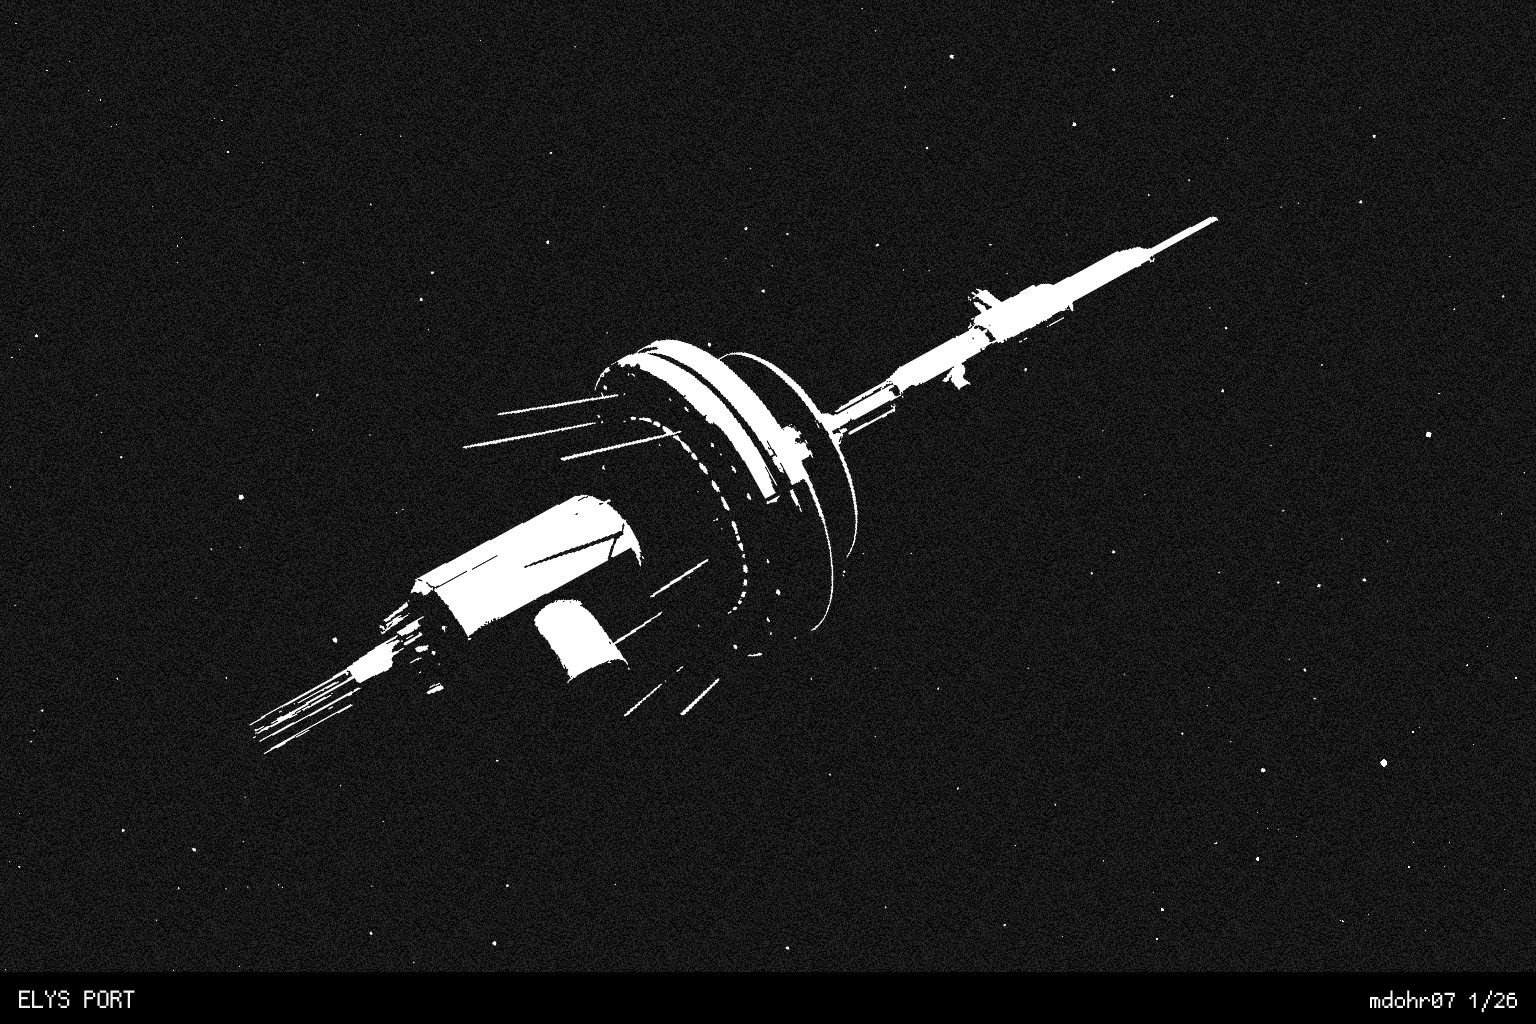
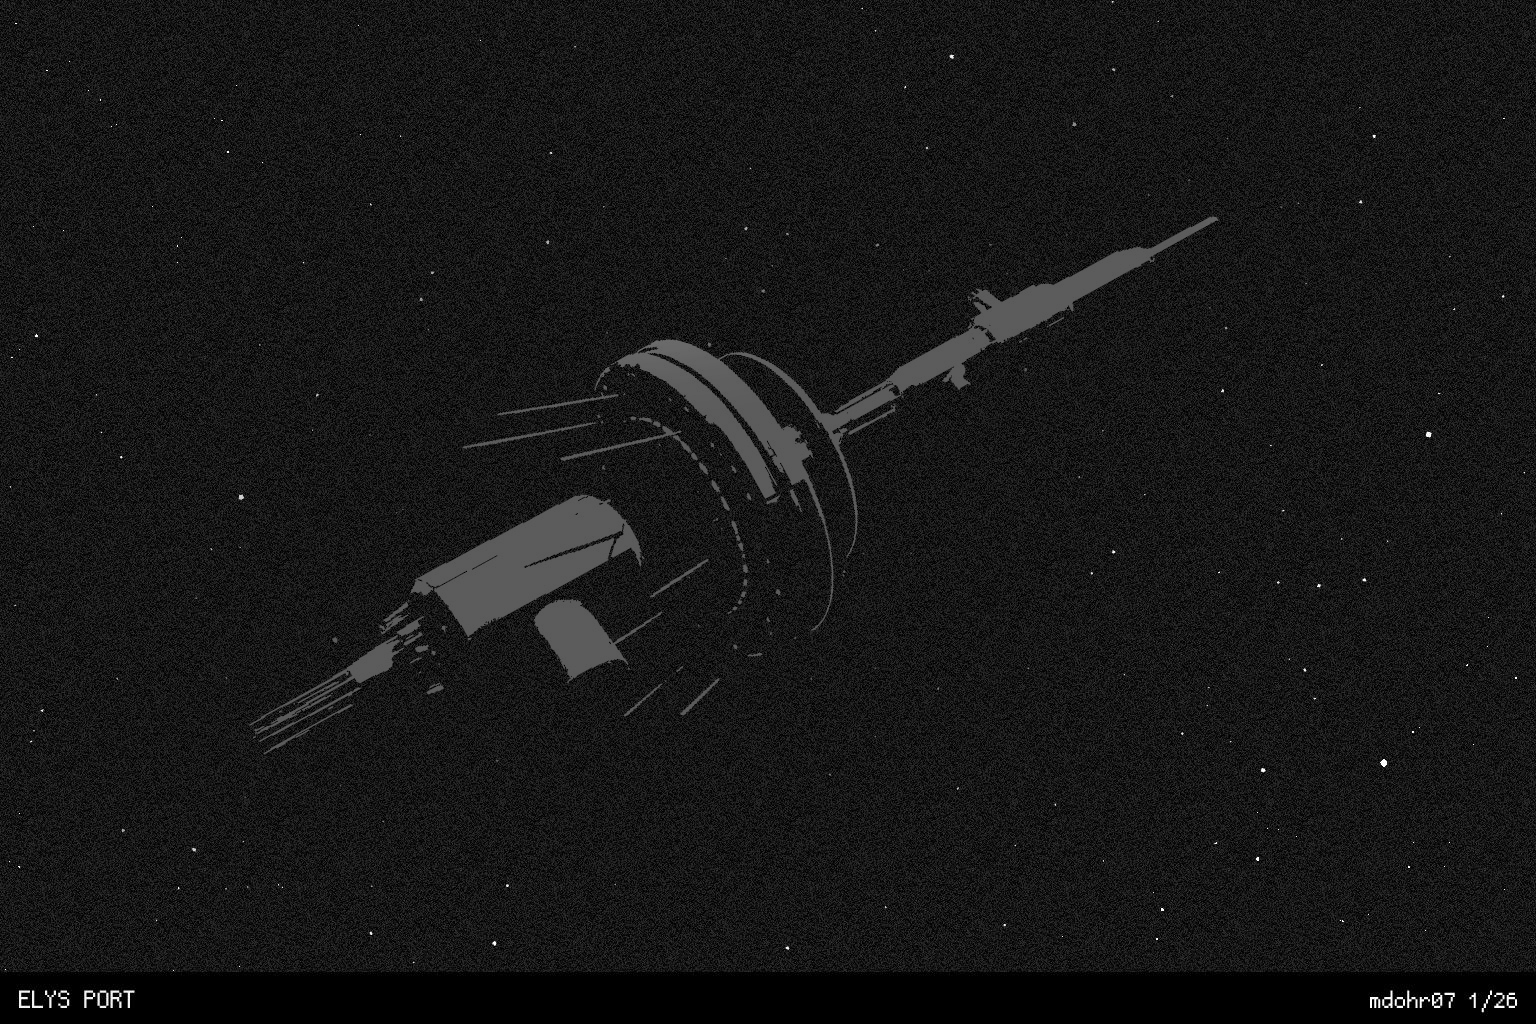
Refactor code structure for improved readability and maintainability

Changed region(s): [[0.4062, 0.2188, 0.7812, 0.5312], [0.1562, 0.4688, 0.4375, 0.7188], [0.3125, 0.4062, 0.3438, 0.4375]]

diff --git a/src/styles/global.scss b/src/styles/global.scss
@@ -312,6 +312,7 @@ nav {
   border: 1px solid var(--gray-333);
   text-shadow: var(--gold-glow);
   font-family: "audiowide", Garamond, serif;
+  text-transform: uppercase;
 }
 
 nav a img {
@@ -496,10 +497,6 @@ h1.title {
 
 /* Blog */
 .blog-container {
-  background-image: url("/img/assets/graphics/fairy.png");
-  background-position: top right;
-  background-repeat: no-repeat;
-  background-size: 100px;
   width: 100%;
   margin: 0 auto;
   padding: 0rem;
